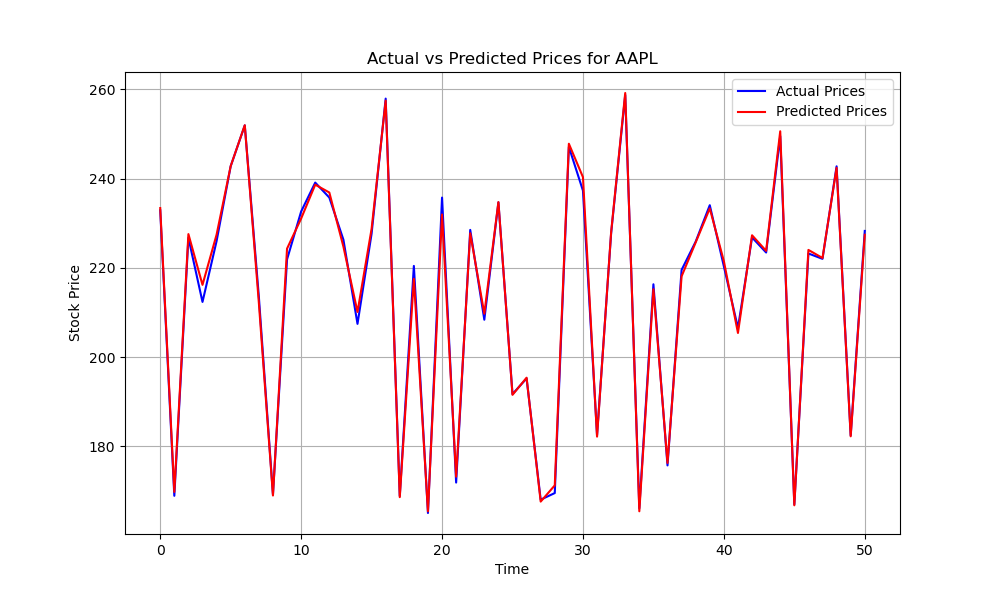
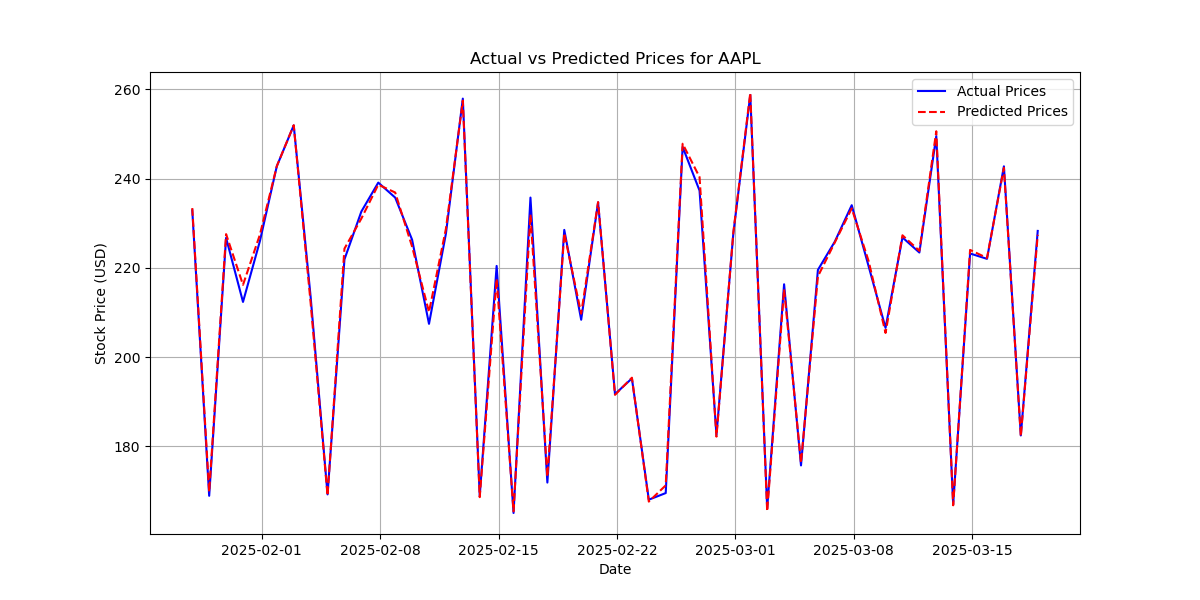
moving averages

diff --git a/src/train.py b/src/train.py
@@ -1,12 +1,7 @@
-import pandas as pd
-import joblib
-import numpy as np
 import os
-from sklearn.model_selection import train_test_split
-from sklearn.linear_model import LinearRegression
-from sklearn.metrics import mean_squared_error, r2_score
+import pandas as pd
 from data_loader import load_data
-from predict_visualize import visualize_predictions
+from predict_visualize import visualize_predictions, plot_moving_averages, plot_correlation_heatmap
 
 def train_model(stock_symbol):
     df = load_data(stock_symbol)
@@ -16,41 +11,52 @@ def train_model(stock_symbol):
     # Ensure necessary columns
     required_columns = ['Open', 'High', 'Low', 'Close', 'Volume']
     if not all(col in df.columns for col in required_columns):
-        raise ValueError("❗ Missing required columns in the data")
+        raise ValueError("Missing required columns in the data")
 
     # Features and Target
     X = df[['Open', 'High', 'Low', 'Volume']]
     y = df['Close']
 
     # Train-test split
+    from sklearn.model_selection import train_test_split
     X_train, X_test, y_train, y_test = train_test_split(X, y, test_size=0.2, random_state=42)
 
     # Train Model
-    print("🛠 Training model...")
+    from sklearn.linear_model import LinearRegression
+    from sklearn.metrics import mean_squared_error, r2_score
+
+    print("Training model...")
     model = LinearRegression()
     model.fit(X_train, y_train)
-    print("✅ Training completed.")
+    print("Training completed.")
 
-    # Ensure models directory exists
-    os.makedirs('models', exist_ok=True)
-
-    # Save Model with Stock Symbol
-    model_path = f'models/model_{stock_symbol}.pkl'
-    joblib.dump(model, model_path)
-    print(f"💾 Model saved to {model_path}")
+    # Save Model
+    if not os.path.exists('models'):
+        os.makedirs('models')
+    import joblib
+    joblib.dump(model, f'models/{stock_symbol}_model.pkl')
+    print(f"Model saved to models/{stock_symbol}_model.pkl")
 
     # Evaluate Model
-    print("📊 Evaluating model...")
     y_pred = model.predict(X_test)
     mse = mean_squared_error(y_test, y_pred)
     r2 = r2_score(y_test, y_pred)
-    print(f"📈 Model Evaluation Results:\n🔎 Mean Squared Error: {mse}\n📊 R2 Score: {r2}")
+    print(f"Model Evaluation Results:\nMean Squared Error: {mse}\nR2 Score: {r2}")
+
+    # Ensure Visualization Directory
+    if not os.path.exists('visualizations'):
+        os.makedirs('visualizations')
 
     # Visualize Predictions
-    print("🖼 Visualizing predictions...")
-    visualize_predictions(y_test, y_pred, stock_symbol)
+    visualize_predictions(y_test, y_pred, stock_symbol, X_test)
 
-    print("🎉 Process completed. Predictions visualized!")
+    # Plot Moving Averages
+    plot_moving_averages(df, stock_symbol)
+
+    # Plot Correlation Heatmap
+    plot_correlation_heatmap(df, stock_symbol)
+
+    print("✅ All visualizations completed!")
 
 if __name__ == "__main__":
     stock_symbol = input("Enter the stock symbol (e.g., AAPL, TSLA): ").upper()

diff --git a/src/predict_visualize.py b/src/predict_visualize.py
@@ -1,15 +1,48 @@
 import matplotlib.pyplot as plt
+import seaborn as sns
 import numpy as np
+import pandas as pd
 
-def visualize_predictions(y_test, y_pred, stock_symbol):
-    plt.figure(figsize=(10, 6))
-    plt.plot(np.arange(len(y_test)), y_test, label="Actual Prices", color="blue")
-    plt.plot(np.arange(len(y_pred)), y_pred, label="Predicted Prices", color="red")
-    plt.xlabel("Time")
-    plt.ylabel("Stock Price")
+def visualize_predictions(y_test, y_pred, stock_symbol, X_test):
+    # Plot Actual vs Predicted with Dates
+    dates = pd.date_range(end=pd.Timestamp.today(), periods=len(y_test))
+
+    plt.figure(figsize=(12, 6))
+    plt.plot(dates, y_test, label="Actual Prices", color="blue")
+    plt.plot(dates, y_pred, label="Predicted Prices", color="red", linestyle="--")
+    plt.xlabel("Date")
+    plt.ylabel("Stock Price (USD)")
     plt.title(f"Actual vs Predicted Prices for {stock_symbol}")
     plt.legend()
     plt.grid(True)
     plt.savefig(f'visualizations/{stock_symbol}_prediction.png')
     plt.show()
-    print(f"Visualization saved as visualizations/{stock_symbol}_prediction.png")
+    print(f"📊 Visualization saved as visualizations/{stock_symbol}_prediction.png")
+
+def plot_moving_averages(df, stock_symbol):
+    # Calculate Moving Averages
+    df['MA30'] = df['Close'].rolling(window=30).mean()
+    df['MA100'] = df['Close'].rolling(window=100).mean()
+
+    # Plot Moving Averages
+    plt.figure(figsize=(12, 6))
+    plt.plot(df['Date'], df['Close'], label='Close Price', color='blue')
+    plt.plot(df['Date'], df['MA30'], label='30-Day MA', color='green')
+    plt.plot(df['Date'], df['MA100'], label='100-Day MA', color='red')
+    plt.xlabel('Date')
+    plt.ylabel('Price (USD)')
+    plt.title(f'{stock_symbol} Stock Prices with Moving Averages')
+    plt.legend()
+    plt.grid(True)
+    plt.savefig(f'visualizations/{stock_symbol}_moving_averages.png')
+    plt.show()
+    print(f"📈 Moving Averages plot saved as visualizations/{stock_symbol}_moving_averages.png")
+
+def plot_correlation_heatmap(df, stock_symbol):
+    # Correlation Heatmap
+    plt.figure(figsize=(8, 6))
+    sns.heatmap(df[['Close', 'High', 'Low', 'Open', 'Volume']].corr(), annot=True, cmap='coolwarm')
+    plt.title(f'{stock_symbol} Correlation Heatmap')
+    plt.savefig(f'visualizations/{stock_symbol}_correlation_heatmap.png')
+    plt.show()
+    print(f"🔥 Correlation Heatmap saved as visualizations/{stock_symbol}_correlation_heatmap.png")
